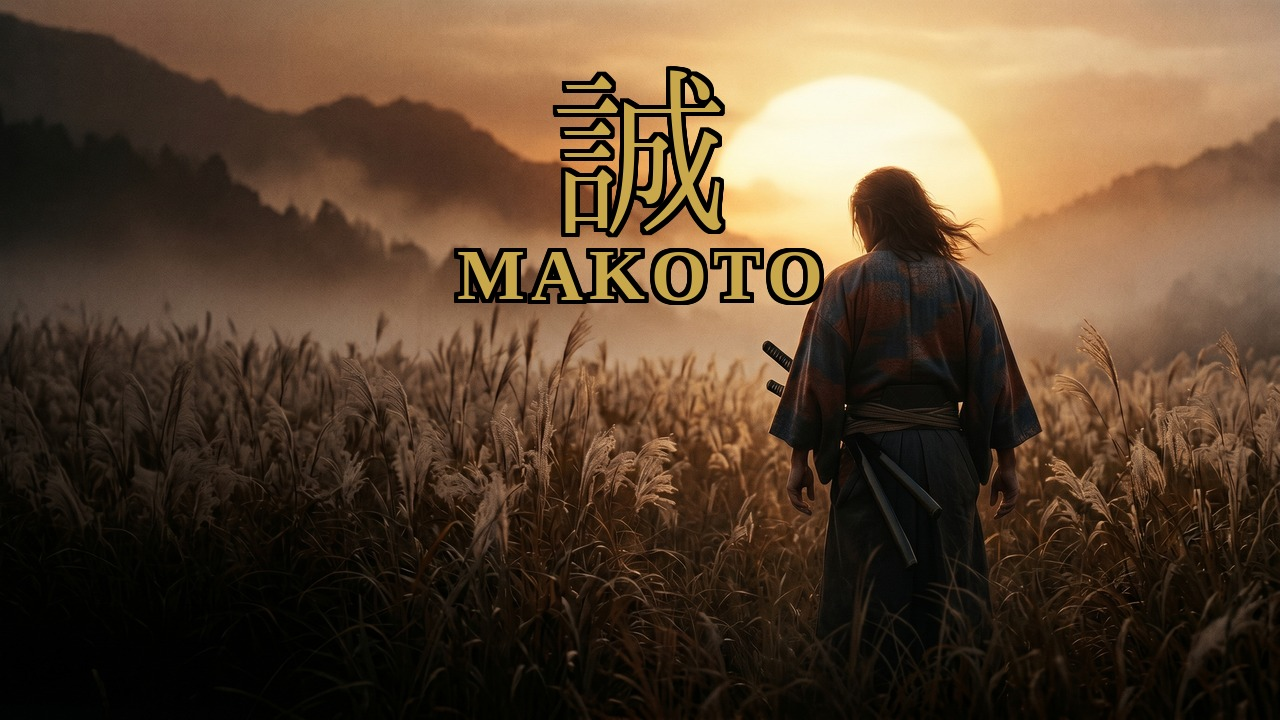
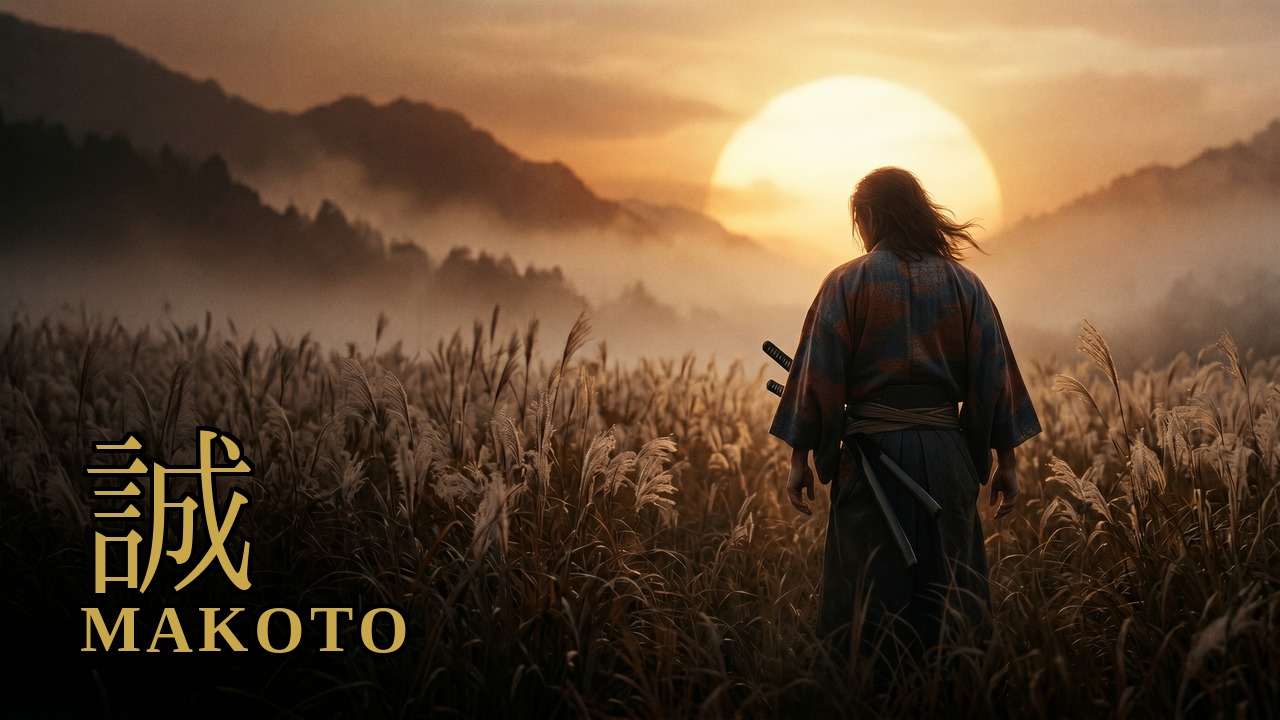
stillwave: MAKOTO thumbnail v2 — move text to lower-left
Upper-center placed 誠 directly over the bright sunrise sun —
unreadable. Moved to lower-left over dark grass/mist zone per
channel figure-8 rule. Gold #C9A84C stays (reads well on dark
foreground). Kanji Y=430, left margin 80px.

Claude-Session: https://claude.ai/code/session_014rUxCAgr4C7iAmMHbP4fFt

Changed region(s): [[0.3438, 0.0917, 0.6562, 0.4278], [0.0625, 0.5806, 0.3438, 0.9167]]

diff --git a/stillwave/assets/makoto-compose-thumb.py b/stillwave/assets/makoto-compose-thumb.py
@@ -32,17 +32,17 @@ ROMAJI_FONT_PATH = "/usr/share/fonts/truetype/liberation/LiberationSerif-Bold.tt
 
 GOLD = (201, 168, 76)   # #C9A84C — warm gold, Bushidō honor
 
-# Single large kanji 誠 — upper-center
+# Single large kanji 誠 — lower-left over dark grass/mist zone
 KANJI_TEXT = "誠"
 KANJI_SIZE = 180
-KANJI_CENTER_X = 640
-KANJI_Y = 70
+KANJI_X = 80       # left margin
+KANJI_Y = 430      # lower zone over dark grass
 
-# MAKOTO romaji — centered below kanji
+# MAKOTO romaji — left-aligned below kanji
 ROMAJI_TEXT = "MAKOTO"
-ROMAJI_SIZE = 72
-ROMAJI_CENTER_X = 640
-ROMAJI_LETTER_SPACING = 6
+ROMAJI_SIZE = 65
+ROMAJI_X = 80
+ROMAJI_LETTER_SPACING = 5
 
 
 def load_source() -> Image.Image:
@@ -75,23 +75,21 @@ def main() -> None:
     kanji_font  = ImageFont.truetype(KANJI_FONT_PATH,  KANJI_SIZE)
     romaji_font = ImageFont.truetype(ROMAJI_FONT_PATH, ROMAJI_SIZE)
 
-    # --- 誠 kanji centered ---
+    # --- 誠 kanji lower-left ---
     bb = kanji_font.getbbox(KANJI_TEXT)
-    kw = bb[2] - bb[0]
-    kx = KANJI_CENTER_X - kw // 2 - bb[0]
+    kx = KANJI_X - bb[0]
     ky = KANJI_Y - bb[1]
     draw_with_shadow(draw, (kx, ky), KANJI_TEXT, kanji_font, GOLD)
 
     kanji_bottom = KANJI_Y + (bb[3] - bb[1])
 
-    # --- MAKOTO romaji centered ---
+    # --- MAKOTO romaji left-aligned below kanji ---
     advances = []
     for ch in ROMAJI_TEXT:
         cbb = romaji_font.getbbox(ch)
         advances.append((ch, cbb[2] - cbb[0], cbb))
-    total_w = sum(a[1] for a in advances) + ROMAJI_LETTER_SPACING * (len(advances) - 1)
-    rx = ROMAJI_CENTER_X - total_w // 2
-    ry = kanji_bottom + 18
+    rx = ROMAJI_X
+    ry = kanji_bottom + 14
 
     for ch, w, cbb in advances:
         draw_with_shadow(draw, (rx - cbb[0], ry - cbb[1]), ch, romaji_font, GOLD)
